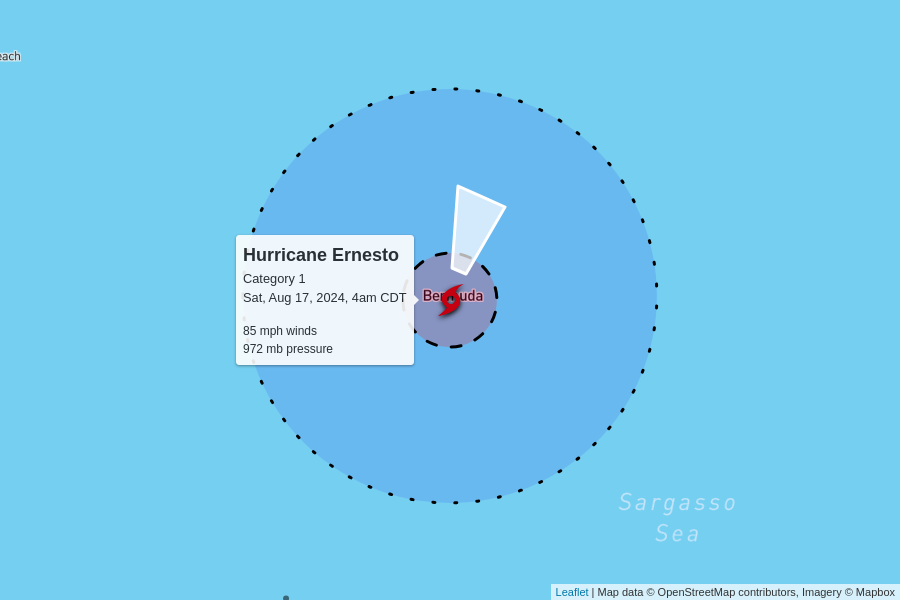
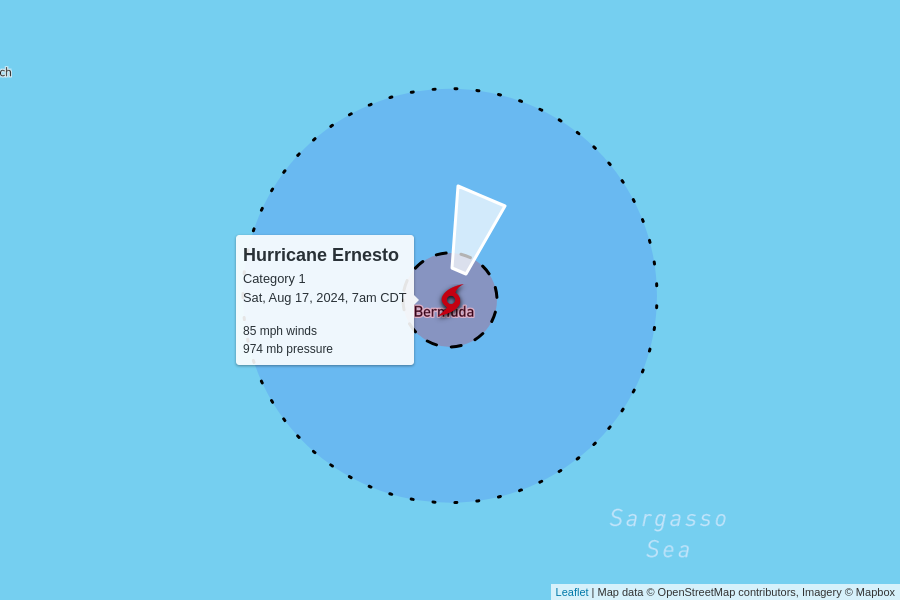
automatic update

diff --git a/docs/index.html b/docs/index.html
@@ -102,7 +102,7 @@
         <td colspan="6" class="storm category-1" >
           <h2>
             Hurricane Ernesto - Category 1
-            <p class="updated">last updated <span data-time>2024-08-17T09:00:00.000Z</span></p>
+            <p class="updated">last updated <span data-time>2024-08-17T12:00:00.000Z</span></p>
           </h2>
         </td>
       </tr>
@@ -117,8 +117,8 @@
       </tr>
       <tr>
         <td class="spacer"></td>
-        <td>85 mph<br>-5 mph since last update</td>
-        <td>972 mb<br>0 mb since last update</td>
+        <td>85 mph<br>0 mph since last update</td>
+        <td>974 mb<br>+2 mb since last update</td>
         <td>
           9 mph to the north-northeast
           <br/>
